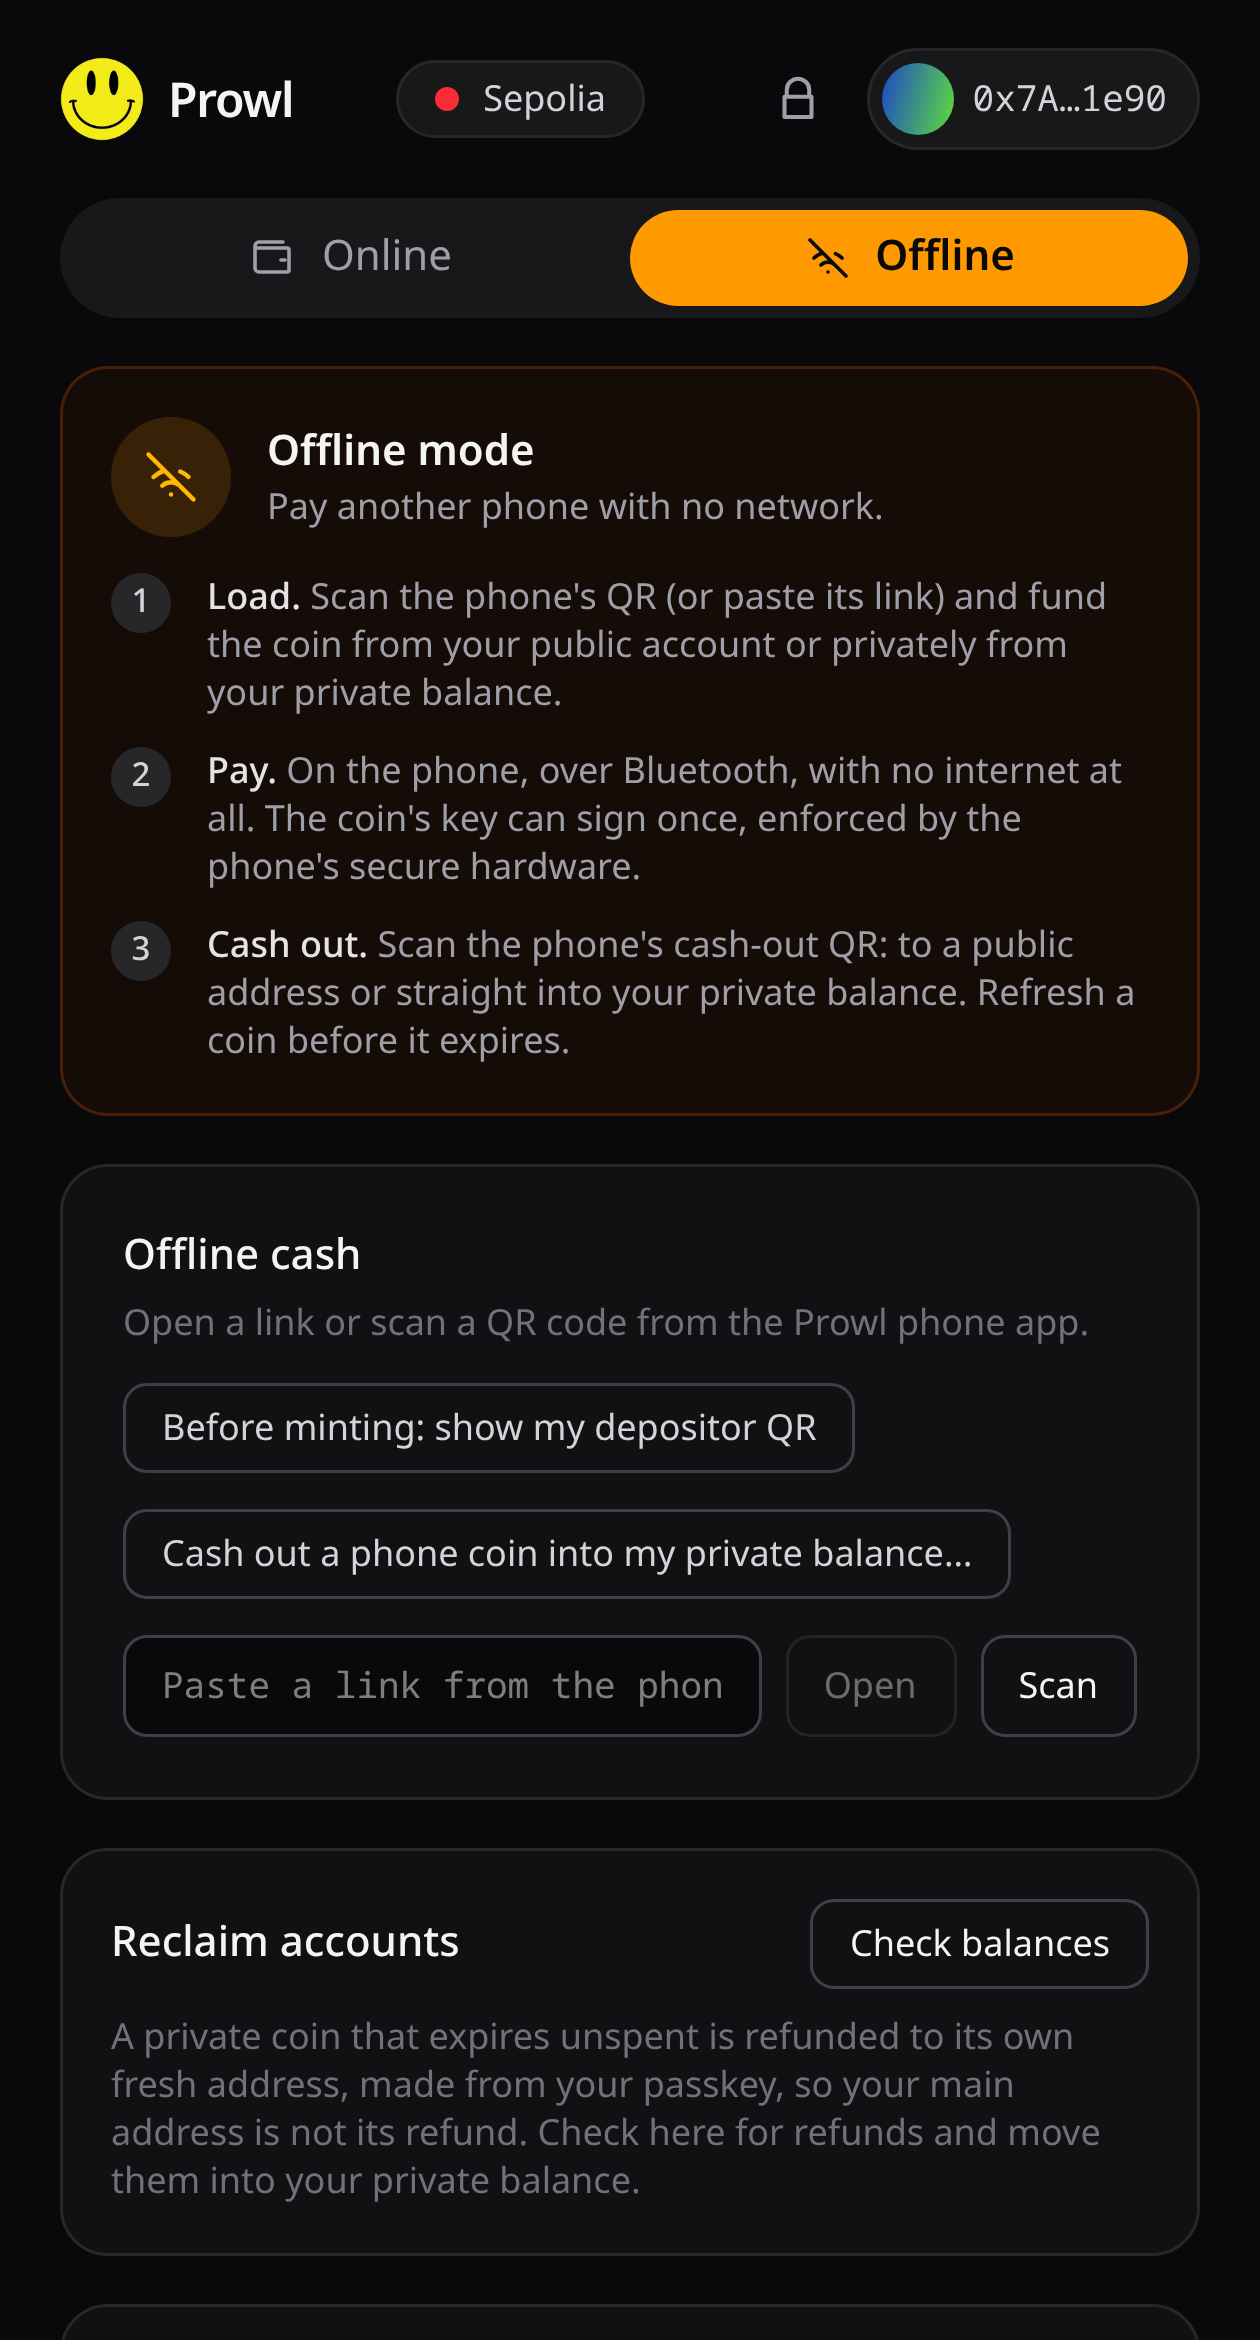
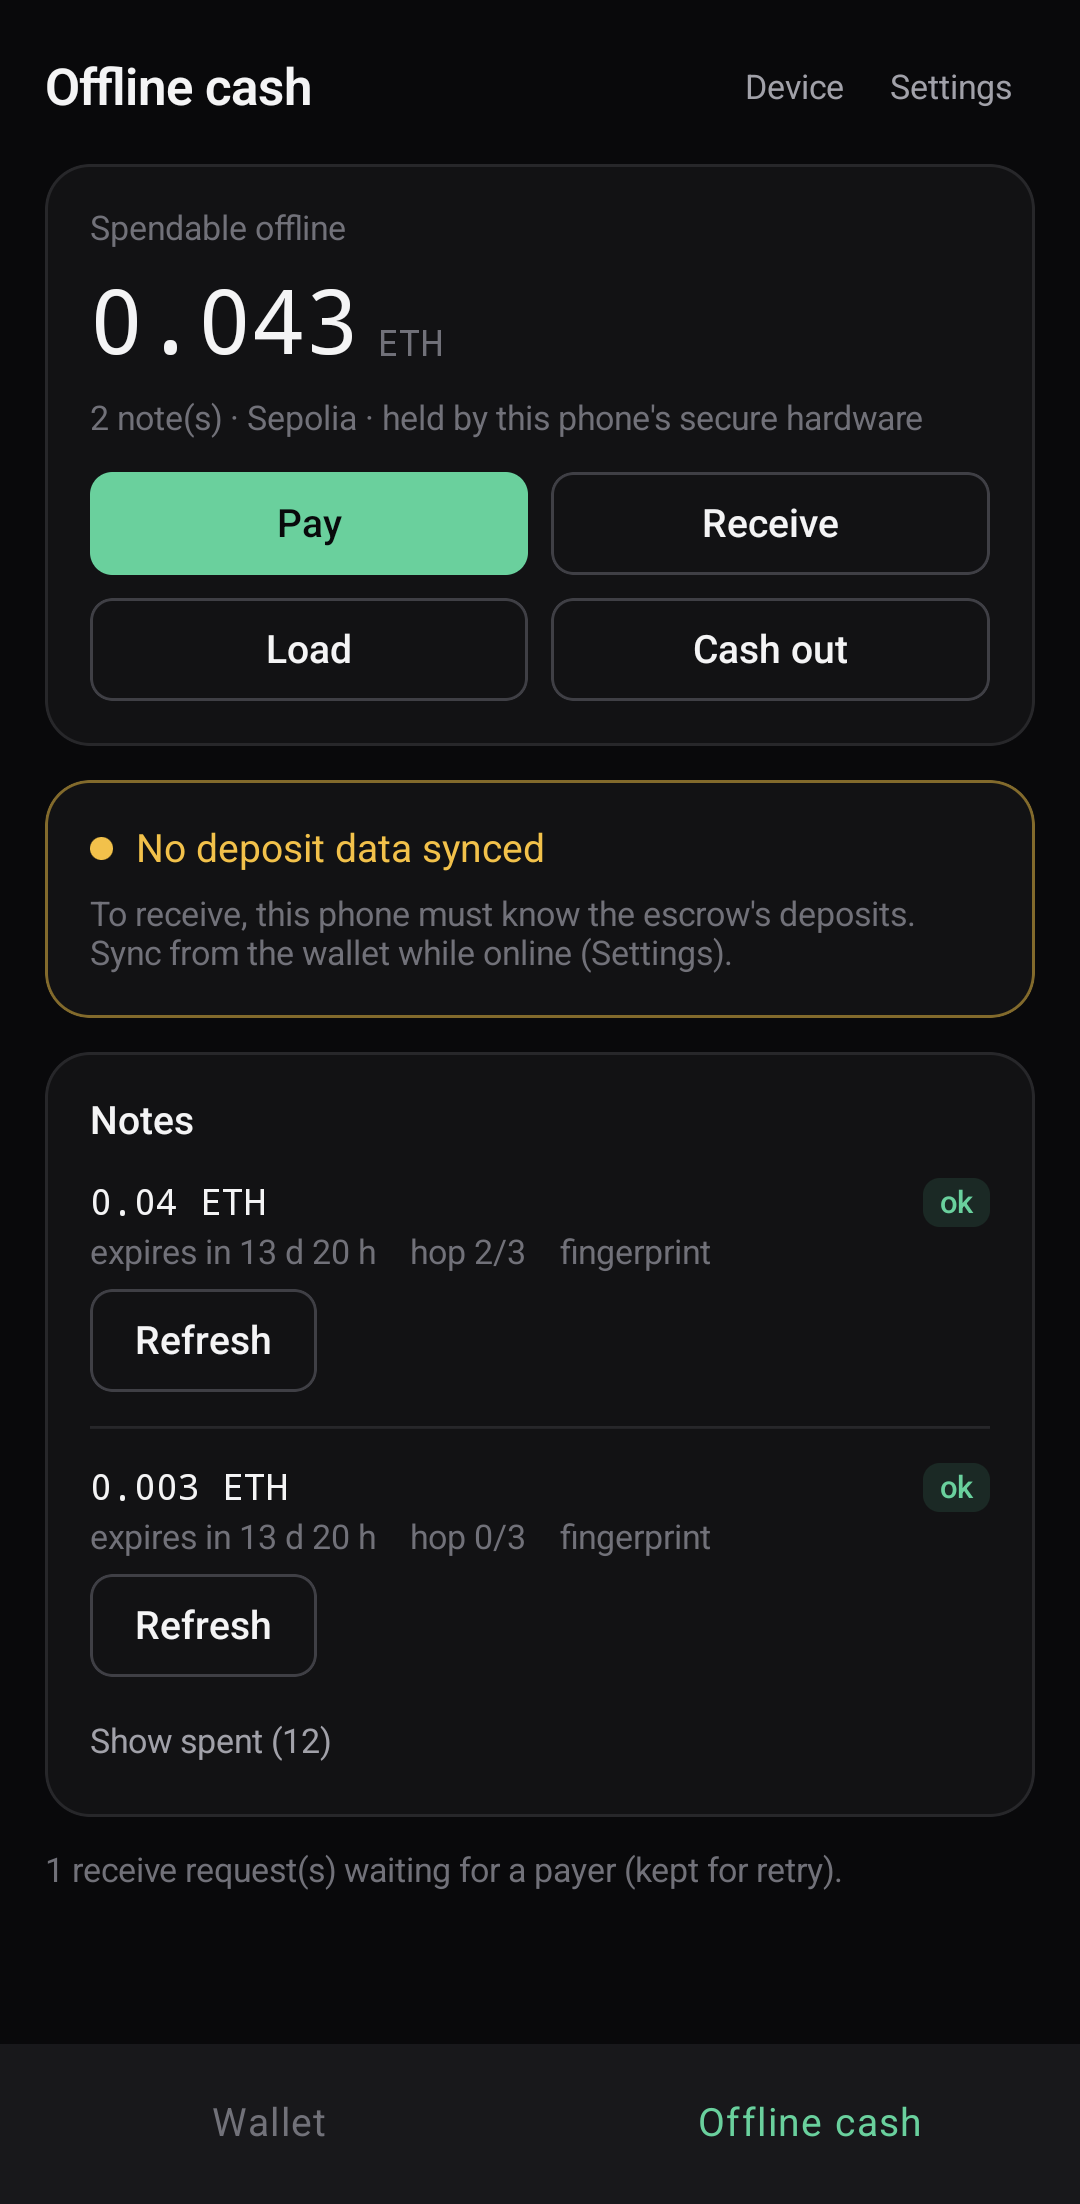
feat(site): real screenshots from the phone and a clearer description
- The hero's screenshots are now real captures from a phone running the Android app (Home, Send with the Public tab, the Swap screen, the native Offline cash tab, and a clean Welcome screen), replacing the earlier ones that were photographed from a desktop dev server in a made-up state. The status bar and browser toolbar are cropped off, and the account chip and the Private and Public address text are blurred before commit. Balances shown are test-network ETH. Activity is not shown (it listed real transaction ids).
- Landing copy: plainer and benefit-led (it keeps your money, and who you pay, private; shielded pool, Tor, passkey with no seed phrase; swap in encrypted batches; pay another phone with no signal), says it is a testnet preview, adds a Private swaps chip, and explains why the wallet opens at its own address. New page description.
- README documents how the screenshots are taken and redacted.

diff --git a/apps/site/src/pages/Home.tsx b/apps/site/src/pages/Home.tsx
@@ -40,12 +40,13 @@ export function Home() {
               className="rise mt-3 max-w-[46ch] text-[clamp(0.85rem,1.15vw,1.02rem)] leading-relaxed text-zinc-400 sm:mt-5"
               style={{ animationDelay: "220ms" }}
             >
-              Prowl is a privacy-first Ethereum wallet. Your balance lives in a{" "}
+              Prowl is an Ethereum wallet that keeps{" "}
+              <span className="text-zinc-200">your money, and who you pay,</span> private. Your balance sits in a{" "}
               <span className="text-zinc-200">shielded pool</span>, every request goes over{" "}
-              <span className="text-zinc-200">Tor on its own circuit</span>, and there is{" "}
-              <span className="text-zinc-200">no seed phrase and no server</span> — your keys come from a
-              passkey. You can swap on Uniswap in <span className="text-zinc-200">encrypted batches</span> (testnet). When there is no signal at all, two phones still pay each other with{" "}
-              <span className="text-zinc-200">offline cash</span>.
+              <span className="text-zinc-200">Tor</span>, and your keys come from a passkey:{" "}
+              <span className="text-zinc-200">no seed phrase, no server</span>. Swap on Uniswap in{" "}
+              <span className="text-zinc-200">encrypted batches</span>, and pay another phone with{" "}
+              <span className="text-zinc-200">no signal at all</span>. A testnet preview.
             </p>
 
             <ul
@@ -56,6 +57,7 @@ export function Home() {
                 ["shield", "RAILGUN shielded"],
                 ["tor", "Tor per identity"],
                 ["key", "Passkey, no seed"],
+                ["swap", "Private swaps"],
                 ["cash", "Offline payments"],
               ].map(([icon, label]) => (
                 <li key={label} className="flex items-center gap-1.5">
@@ -101,8 +103,8 @@ export function Home() {
           {/* On a very short viewport there is no room for the footnote: the
               buttons say what they do on their own. */}
           <p className="mt-2 hidden text-center text-[11px] leading-snug text-zinc-600 min-[400px]:block sm:text-left [@media(max-height:700px)]:hidden sm:[@media(min-height:701px)]:block">
-            The browser wallet opens on its own origin (passkeys are bound to it). The APK is the
-            Android app, for offline cash.
+            The browser wallet opens at its own address, because passkeys are tied to it. The Android app
+            adds offline cash and keeps its keys in the phone&rsquo;s secure hardware.
           </p>
         </section>
       </div>

diff --git a/apps/site/src/components/HeroShots.tsx b/apps/site/src/components/HeroShots.tsx
@@ -2,17 +2,17 @@ import { useEffect, useState } from "react";
 import { url } from "../lib/router";
 
 /**
- * Three real wallet screens, overlapping like cards fanned on a table.
+ * Three real screens from the Android app, overlapping like cards fanned on a table.
  *
- * The front card cycles through the four screenshots on a timer (and on hover
- * it pauses), so the hero shows the product working without a video: balance,
- * activity, offline cash, shielding. Purely CSS transforms, no libraries.
+ * The screenshots are captured from a real phone running the app (the address text is blurred; the
+ * balances are test-network ETH). The front card cycles through three of them on a timer (and on hover
+ * it pauses), so the hero shows the product working without a video: balance, sending, offline cash.
+ * Purely CSS transforms, no libraries.
  */
 const SHOTS = [
   { src: url("/shots/wallet.png"), label: "Your private balance" },
-  { src: url("/shots/activity.png"), label: "Activity, kept on device" },
+  { src: url("/shots/send.png"), label: "Send privately or publicly" },
   { src: url("/shots/offline.png"), label: "Offline cash, phone to phone" },
-  { src: url("/shots/shield.png"), label: "Shield ETH into the pool" },
 ] as const;
 
 export function HeroShots() {
@@ -48,15 +48,15 @@ export function HeroShots() {
           delay="120ms"
         />
 
-        {/* Middle card: activity. */}
+        {/* Middle card: the private swap. */}
         <Phone
-          src={url("/shots/activity.png")}
-          alt="The Prowl activity list"
+          src={url("/shots/swap.png")}
+          alt="The Prowl private swap screen"
           className="absolute left-[24%] top-[9%] h-[84%] w-auto rotate-[3deg] opacity-90"
           delay="220ms"
         />
 
-        {/* Front card: cycles through the four screens. */}
+        {/* Front card: cycles through the screens. */}
         <div className="rise absolute right-[2%] top-0 z-20 h-full" style={{ animationDelay: "320ms" }}>
           <div className="relative h-full">
             {SHOTS.map((shot, i) => (

diff --git a/apps/site/src/components/Icon.tsx b/apps/site/src/components/Icon.tsx
@@ -15,6 +15,7 @@ export const ICONS = {
   github: "M9 19c-4 1.5-4-2.5-6-3m12 5v-3.9a3.4 3.4 0 0 0-1-2.6c3-.3 6-1.5 6-6.6a5.2 5.2 0 0 0-1.4-3.6 4.8 4.8 0 0 0-.1-3.6s-1.1-.3-3.6 1.4a12.4 12.4 0 0 0-6.6 0C6.1 .9 5 1.2 5 1.2a4.8 4.8 0 0 0-.1 3.6A5.2 5.2 0 0 0 3.5 8.4c0 5 3 6.3 6 6.6a3.4 3.4 0 0 0-1 2.6V21",
   spark: "M12 3v4m0 10v4M3 12h4m10 0h4M5.6 5.6l2.8 2.8m7.2 7.2 2.8 2.8m0-12.8-2.8 2.8M8.4 15.6l-2.8 2.8",
   warn: "M12 9v4m0 3h.01M10.3 3.9 2.5 17a2 2 0 0 0 1.7 3h15.6a2 2 0 0 0 1.7-3L13.7 3.9a2 2 0 0 0-3.4 0Z",
+  swap: "M4 8h15m0 0-3-3m3 3-3 3M20 16H5m0 0 3-3m-3 3 3 3",
   info: "M12 21a9 9 0 1 0 0-18 9 9 0 0 0 0 18Zm0-9v5m0-8h.01",
 } as const;
 

diff --git a/apps/site/index.html b/apps/site/index.html
@@ -6,7 +6,7 @@
     <meta name="referrer" content="no-referrer" />
     <meta
       name="description"
-      content="Prowl — a privacy-first Ethereum wallet. A shielded balance, Tor on every request, no seed phrase, private swaps on Uniswap v4 (testnet), and offline cash for two phones with no network."
+      content="Prowl is a private Ethereum wallet: a shielded balance, every request over Tor, passkey keys with no seed phrase, private swaps on Uniswap v4, and offline cash between two phones. A testnet preview."
     />
     <meta name="theme-color" content="#08090b" />
     <link rel="icon" type="image/png" href="/favicon.png" />

diff --git a/apps/site/README.md b/apps/site/README.md
@@ -37,15 +37,17 @@ pnpm --filter @prawl/site build      # apps/site/dist
 pnpm --filter @prawl/site typecheck
 ```
 
-## Refresh the screenshots
+## The screenshots
 
-The screenshots are the real UI, driven into a funded-looking state by the
-wallet's dev-only `devSetState` hook. With the wallet dev server running:
+`public/shots/` are real screenshots taken on a phone running the Android app (the Wallet tab and the native Offline cash tab),
+not drawn and not generated from a fake state. They were captured over `adb` with the WebView driven through Chrome DevTools
+(open the sheet, tap the tab, `adb exec-out screencap`), then cropped to remove the status bar and **the wallet and address
+text was blurred** (the account chip and the Private and Public address rows) before they were committed. The balances shown are
+test-network ETH. To refresh them, repeat that on a device and redact the same places; never commit an unredacted capture of
+a wallet you care about.
 
-```sh
-pnpm --filter @prawl/wallet dev &     # http://localhost:5173
-node apps/site/scripts/capture-shots.mjs
-```
+(`scripts/capture-shots.mjs` is the older script that photographed a desktop dev server in a made-up state. It is not used for
+the current images.)
 
 ## The APK
 
